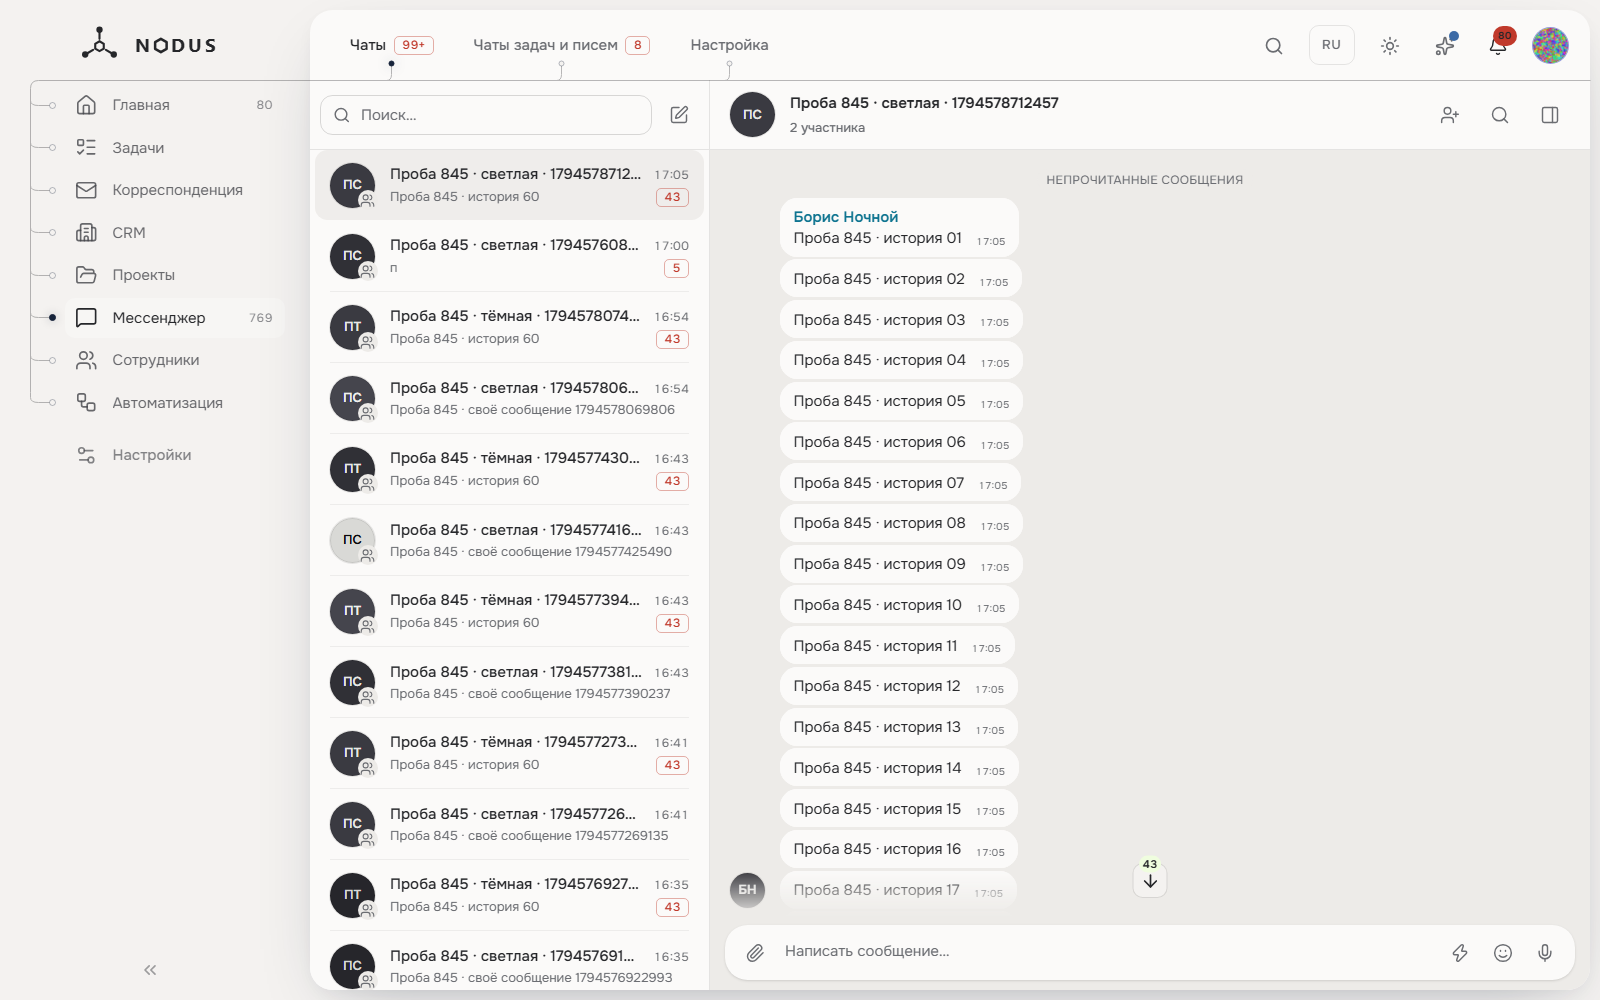
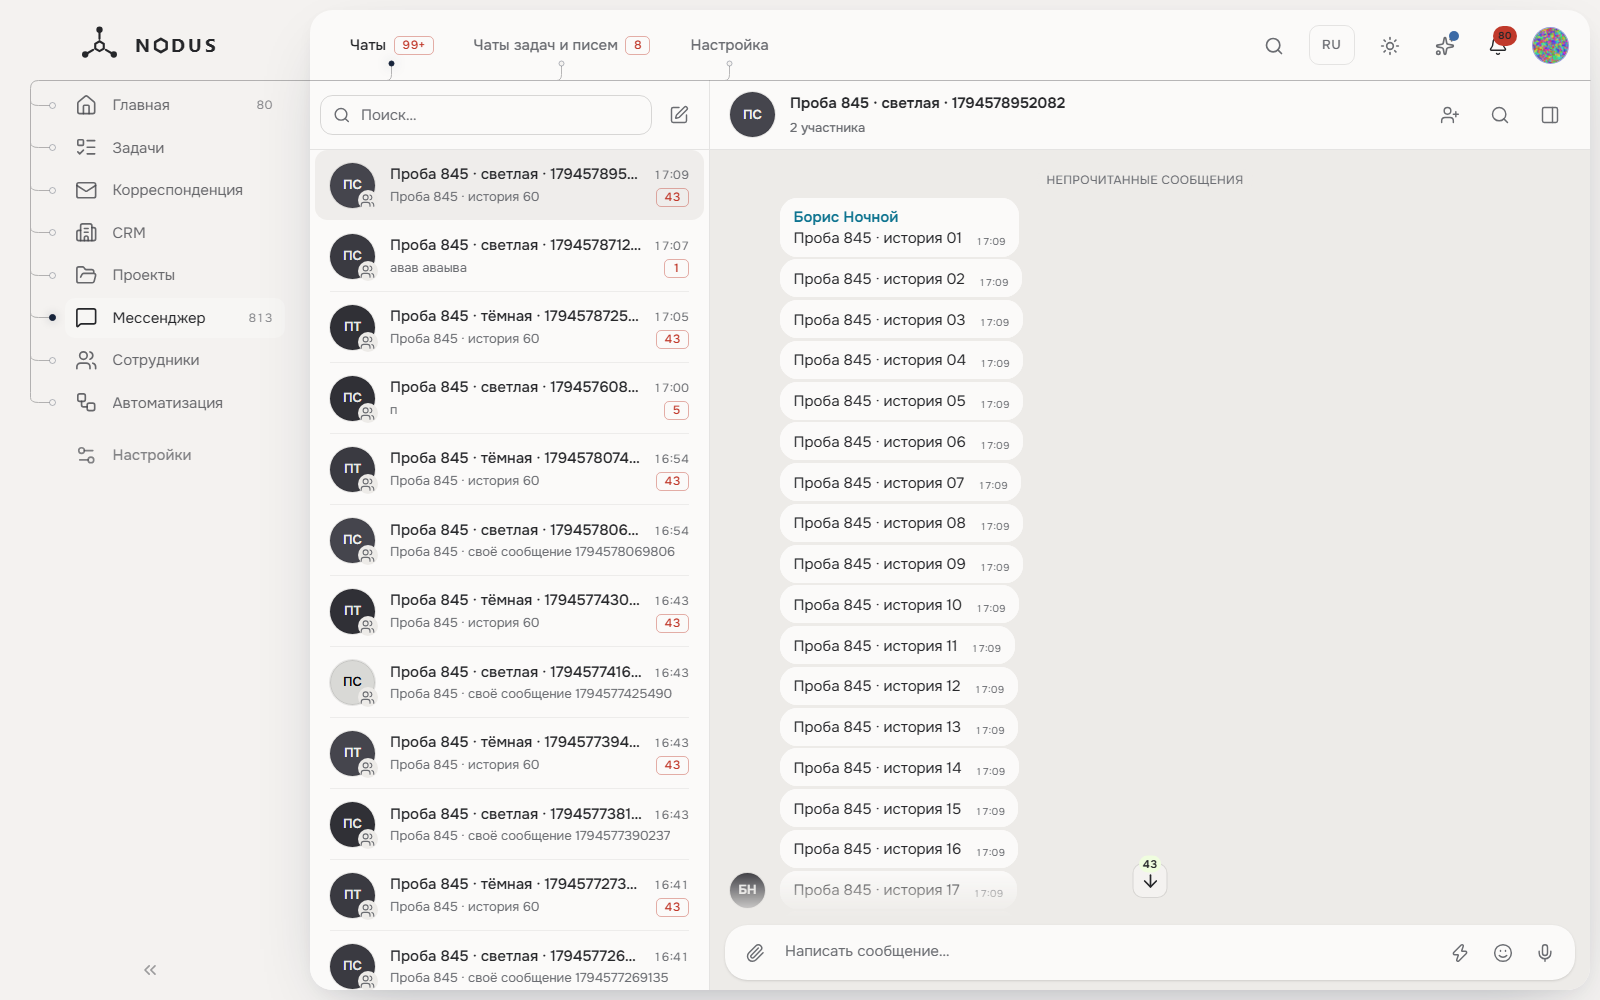
fix(web): длинный прыжок и «меньше движения» — мгновенно, короткий — плавно (#845)

diff --git a/apps/web/src/shared/chat/scroll-jump.test.ts b/apps/web/src/shared/chat/scroll-jump.test.ts
@@ -178,11 +178,11 @@ describe('scrollMessageIntoView — плавный режим', () => {
       clientHeight: 600,
     });
     const message = makeElement();
-    liveStub(message, container, 2000, 80);
-    const h = harness(container, 2000);
+    liveStub(message, container, 1500, 80);
+    const h = harness(container, 1500);
     scrollMessageIntoView(message, container, { align: 'start', margin: 48, behavior: 'smooth' });
     h.finish();
-    expect(container.scrollTop).toBe(1952);
+    expect(container.scrollTop).toBe(1452);
     h.restore();
   });
 
@@ -219,8 +219,8 @@ describe('scrollMessageIntoView — плавный режим', () => {
       clientHeight: 600,
     });
     const message = makeElement();
-    liveStub(message, container, 2000, 80);
-    const h = harness(container, 2000);
+    liveStub(message, container, 1200, 80);
+    const h = harness(container, 1200);
     let node: HTMLElement | null = message;
     scrollMessageIntoView(() => node, container, {
       align: 'start',
@@ -240,7 +240,7 @@ describe('scrollMessageIntoView — плавный режим', () => {
     const container = makeContainer({
       rect: CONTAINER_RECT,
       scrollTop: 0,
-      scrollHeight: 3000,
+      scrollHeight: 2000,
       clientHeight: 600,
     });
     const h = harness(container, 0);
@@ -248,9 +248,9 @@ describe('scrollMessageIntoView — плавный режим', () => {
     h.flush(50);
     // Первый кадр — только часть пути: это анимация, а не мгновенный скролл.
     expect(container.scrollTop).toBeGreaterThan(0);
-    expect(container.scrollTop).toBeLessThan(2400);
+    expect(container.scrollTop).toBeLessThan(1400);
     h.finish();
-    expect(container.scrollTop).toBe(2400); // maxScroll
+    expect(container.scrollTop).toBe(1400); // maxScroll
     h.restore();
   });
 
@@ -258,10 +258,10 @@ describe('scrollMessageIntoView — плавный режим', () => {
     const container = makeContainer({
       rect: CONTAINER_RECT,
       scrollTop: 0,
-      scrollHeight: 3000,
+      scrollHeight: 2000,
       clientHeight: 600,
     });
-    let scrollHeight = 3000;
+    let scrollHeight = 2000;
     Object.defineProperty(container, 'scrollHeight', {
       get: () => scrollHeight,
       configurable: true,
@@ -269,9 +269,40 @@ describe('scrollMessageIntoView — плавный режим', () => {
     const h = harness(container, 0);
     scrollToEndSmooth(container);
     h.flush(50);
-    scrollHeight = 3400; // строка дорендерилась по ходу навигации
+    scrollHeight = 2400; // строка дорендерилась по ходу навигации
     h.finish();
-    expect(container.scrollTop).toBe(2800);
+    expect(container.scrollTop).toBe(1800);
     h.restore();
+  });
+
+  it('прыжок длиннее трёх экранов — мгновенный (гигантский чат не ждёт)', () => {
+    const container = makeContainer({
+      rect: CONTAINER_RECT,
+      scrollTop: 0,
+      scrollHeight: 6000,
+      clientHeight: 600,
+    });
+    const message = makeElement();
+    liveStub(message, container, 2000, 80);
+    scrollMessageIntoView(message, container, { align: 'start', margin: 48, behavior: 'smooth' });
+    // До кадров: телепорт сразу на цель (1952 > 3×600), без 320-мс пролёта.
+    expect(container.scrollTop).toBe(1952);
+  });
+
+  it('системное «меньше движения» — мгновенно даже на коротком прыжке', () => {
+    const mq = vi.fn().mockReturnValue({ matches: true });
+    vi.stubGlobal('matchMedia', mq);
+    const container = makeContainer({
+      rect: CONTAINER_RECT,
+      scrollTop: 0,
+      scrollHeight: 3000,
+      clientHeight: 600,
+    });
+    const message = makeElement();
+    liveStub(message, container, 1200, 80);
+    scrollMessageIntoView(message, container, { align: 'start', margin: 48, behavior: 'smooth' });
+    expect(container.scrollTop).toBe(1152);
+    expect(mq).toHaveBeenCalledWith('(prefers-reduced-motion: reduce)');
+    vi.unstubAllGlobals();
   });
 });

diff --git a/apps/web/src/shared/chat/scroll-jump.ts b/apps/web/src/shared/chat/scroll-jump.ts
@@ -20,6 +20,17 @@ export type RevealOutcome = 'visible' | 'scrolled';
 const EPSILON = 1;
 /** Длительность собственной плавной прокрутки (нативная не корректируется). */
 const SMOOTH_SCROLL_MS = 320;
+/** Дальше трёх экранов анимация не «красивее» — это уже телепорт с размазнёй;
+ *  best practice jump-баров: длинный прыжок — мгновенный (и при reduced motion). */
+export const LONG_JUMP_SCREENS = 3;
+
+/** Системная настройка «меньше движения» — прокрутка без анимации. */
+function prefersReducedMotion(): boolean {
+  return (
+    typeof window.matchMedia === 'function' &&
+    window.matchMedia('(prefers-reduced-motion: reduce)').matches
+  );
+}
 
 /** Цель полностью в области прокрутки (без обрезки сверху/снизу). */
 export function isMessageFullyVisible(el: HTMLElement, container: HTMLElement): boolean {
@@ -69,9 +80,30 @@ export function scrollTopFor(
  * КАЖДЫЙ кадр (easeOutCubic, ~320 мс), null — цель исчезла, замираем.
  * Одна механика и для плашки, и для конца ленты: нативная `behavior:'smooth'`
  * целится один раз по оценочной геометрии и промахивается.
+ *
+ * Длительность ФИКСИРОВАННАЯ, не зависит от расстояния: гигантский чат не
+ * растягивает прокрутку (иначе пользователь ждёт). Но прыжок длиннее трёх
+ * экранов в 320 мс — это размазанный телепорт, а rows вне вьюпорта ещё и
+ * оценочные (content-visibility) → такие прыжки мгновенные, как в jump-барах.
+ * «Меньше движения» в системе — тоже мгновенно.
  */
 function smoothScrollTop(container: HTMLElement, target: () => number | null): void {
   const startTop = container.scrollTop;
+  const first = target();
+  if (first === null) return;
+  if (
+    prefersReducedMotion() ||
+    Math.abs(first - startTop) > LONG_JUMP_SCREENS * container.clientHeight
+  ) {
+    container.scrollTop = first;
+    // Один доснап следующим кадром: строки у новой позиции домеряются уже
+    // после установки scrollTop (оценочные высоты content-visibility).
+    requestAnimationFrame(() => {
+      const want = target();
+      if (want !== null) container.scrollTop = want;
+    });
+    return;
+  }
   const startedAt = performance.now();
   let stopped = false;
   const stop = (): void => {
